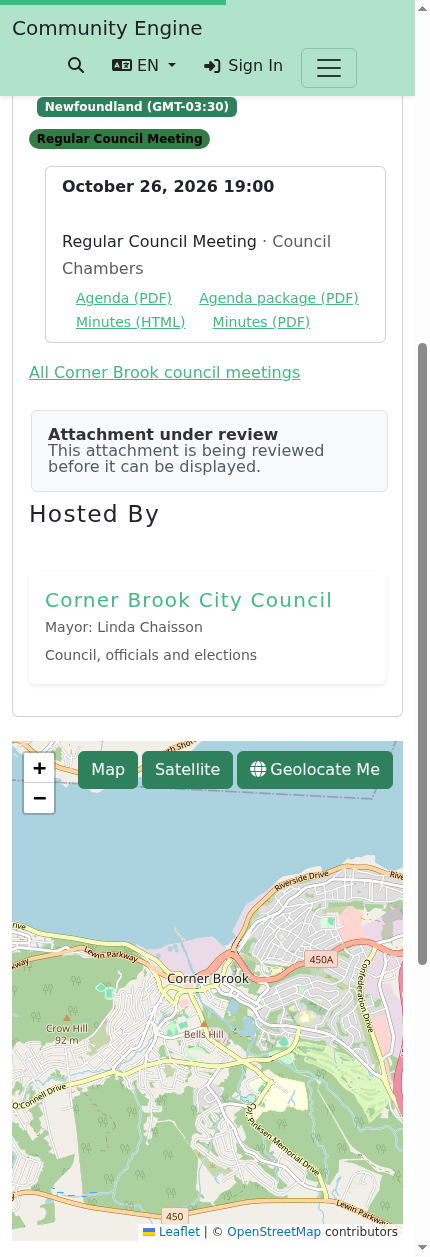
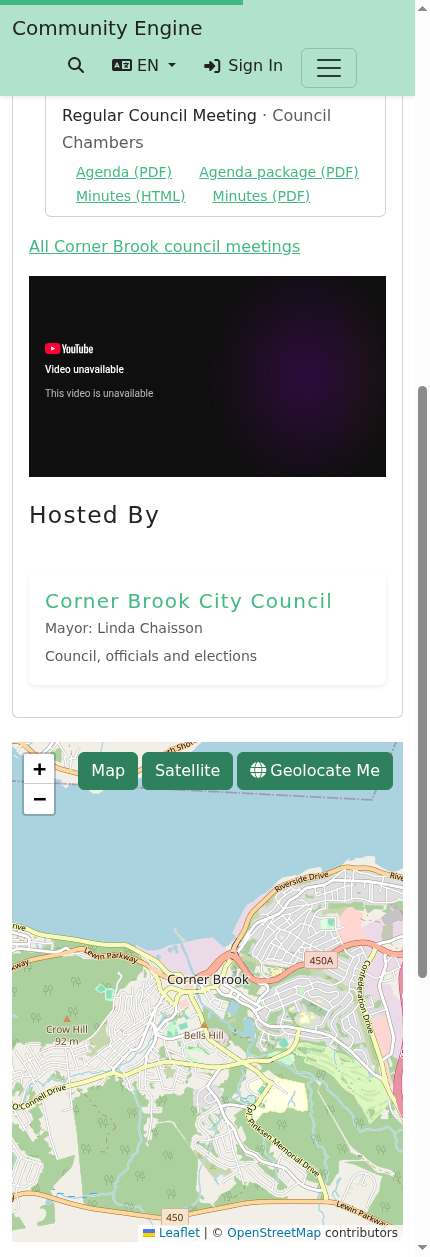
fix(meetings): publish the recording video block and pin the event host spacing
The recording block was created private, so readers saw the attachment
under review placeholder. It is now public. Pins community engine at the
event host spacing merge and refreshes the event screenshots.

diff --git a/app/services/newfoundland_labrador_online/meetings/recording_block.rb b/app/services/newfoundland_labrador_online/meetings/recording_block.rb
@@ -15,7 +15,8 @@ module NewfoundlandLabradorOnline
         return [] unless url
 
         block = BetterTogether::Content::VideoBlock.find_or_initialize_by(platform: @platform, id: block_id)
-        block.update!(video_url: url, caption: @meeting.title) unless block.persisted? && block.video_url == url
+        # Public, so the attachable registry renders it for readers instead of the "under review" placeholder.
+        block.update!(video_url: url, caption: @meeting.title, privacy: 'public') unless current?(block, url)
         @meeting.update!(details: @meeting.details.merge('video_block_id' => block.id))
         [block.id]
       end
@@ -23,6 +24,8 @@ module NewfoundlandLabradorOnline
       private
 
       def block_id = @meeting.details['video_block_id']
+
+      def current?(block, url) = block.persisted? && block.video_url == url && block.privacy_public?
     end
   end
 end

diff --git a/spec/services/newfoundland_labrador_online/meetings/importer_spec.rb b/spec/services/newfoundland_labrador_online/meetings/importer_spec.rb
@@ -56,6 +56,9 @@ RSpec.describe NewfoundlandLabradorOnline::Meetings::Importer do
                             'All Corner Brook council meetings')
     video = event.description.body.attachables.grep(BetterTogether::Content::VideoBlock).sole
     expect(video.attachment_embed_url).to eq('https://www.youtube-nocookie.com/embed/abc123xyz00')
+    expect(video).to be_privacy_public
+    expect(event.description.body.to_s).to include('youtube-nocookie.com/embed/abc123xyz00')
+    expect(event.description.body.to_s).not_to include('under review')
   end
 
   it 'embeds the meeting as an attachment whose rendering does not link back to the event', :aggregate_failures do
